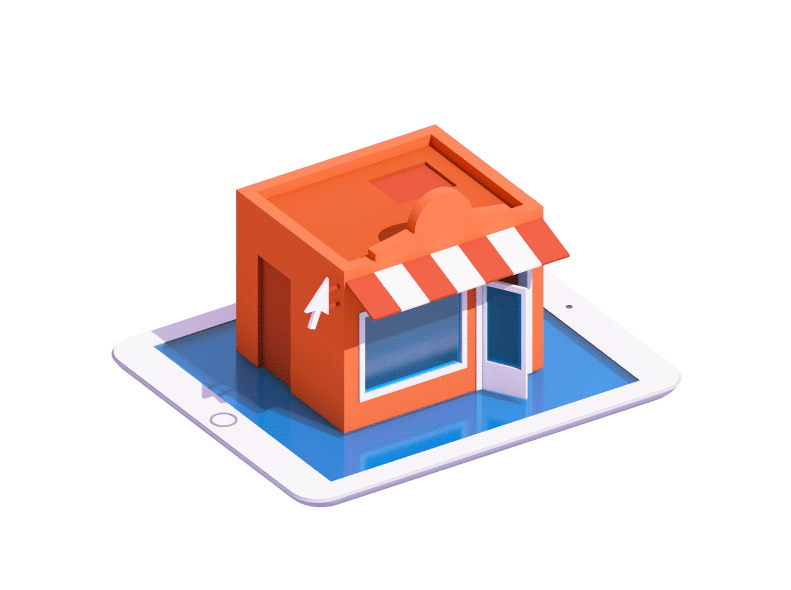
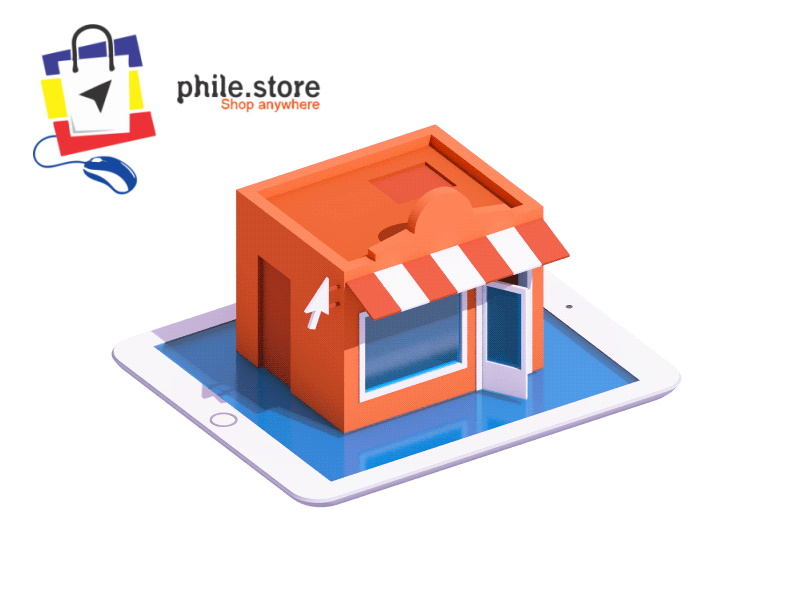
push update

Changed region(s): [[0.0303, 0.0305, 0.2124, 0.3356], [0.2124, 0.122, 0.4248, 0.1831]]

diff --git a/index.html b/index.html
@@ -77,16 +77,23 @@
         </nav>
     </div> -->
     <!-- navbar end -->
-
-    <div class="coming-content-area h-100vh d-flex align-items-center justify-content-center"
+    
+    
+    
+    <div class="d-flex align-items-center justify-content-center"
         style="background-color: white;">
         <div class="container">
+            
             <div class="row">
                 <div class="coming-content">
-                    <img src="assets/img/philestorelogo.png" alt="">
-                    <h6>We are coming soon...</h6>
+                    <br>
+                    <h6 style="color: black;">We are coming soon...</h6>
                     <div class="container">
-                        <img src="/assets//preview.gif" alt="">
+                        <img src="assets/img/philestorelogo.png" alt="">    
+                    </div>
+                    <div class="container">
+                        
+                        <img src="/assets//preview.gif" alt="" style="width: min-content; height: max-content;">
                     </div>
                     
                 </div>
